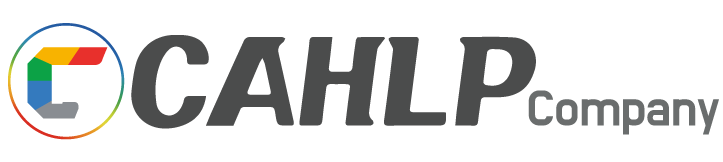
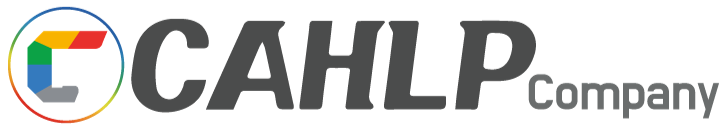
Add: 네비게이션 메뉴 추가
햄버거 버튼을 클릭하면 다른 페이지로 넘어갈 수 있는 네비게이션 메뉴가 나타납니다
- cahlp-dart 이미지 크기 조정
- 메뉴가 나타남에 따라 동적으로 색깔 변경

diff --git a/src/components/Header.jsx b/src/components/Header.jsx
@@ -1,28 +1,51 @@
 import React from "react";
-import { useNavigate } from "react-router-dom";
 
 import styles from './header.module.scss'
-import Main from "../pages/Main";
+import { useNavigate } from "react-router-dom";
 
 function Header(){
-  let navigate = useNavigate();
+  var [isModalOpen, setIsModalOpen] = React.useState(true); // modal open 여부
+  var navigate = useNavigate(); // react router의 navigate 함수
 
   return (
-      <div className={styles.container}>
-          <img
-              src={"public/img/cahlp-dark.png"}
+      <>
+        <div className={`${styles.header} ${isModalOpen && styles.modalOpen}`}>
+          {isModalOpen ? (
+            <img src={"public/img/cahlp-white.png"}
               className={styles.logo}
-              onClick={()=>{navigate("/");}}
-          />
-          <button 
-            className={styles.toggleButton}
-            onClick={()=>{console.log('click!')}}
+              onClick={() => { navigate("/"); }} />
+          ) : (
+            <img src={"public/img/cahlp-dark.png"}
+              className={styles.logo}
+              onClick={() => { navigate("/"); }} />
+          )}
+          <button
+              className={styles.toggleButton}
+              onClick={() => {isModalOpen ? setIsModalOpen(false) : setIsModalOpen(true);}}
           >
               <span className={styles.dot}></span>
               <span className={`${styles.dot} ${styles.dotCenter}`}></span>
               <span className={styles.dot}></span>
           </button>
-      </div>
+        </div>
+        {isModalOpen && <NavMenu isModalOpen={isModalOpen}/>}
+      </>
+  );
+}
+
+/**
+ * 메뉴 버튼 클릭 시 다른 경로로 안내하는 모달 컴포넌트
+ */
+function NavMenu(props){
+  return(
+    <div className={`${styles.nav} ${props.isModalOpen && styles.modalOpen}`}>
+      <button className={styles.navButton}
+        onClick={console.log("우미 브랜드 (준비중)")}
+      >우미 브랜드 (준비중)</button>
+      <button className={styles.navButton}
+        onClick={console.log("E-Service")}
+      >E-Service</button>
+    </div>
   );
 }
 

diff --git a/src/components/header.module.scss b/src/components/header.module.scss
@@ -1,17 +1,17 @@
-.container {
+.header {
     display: flex;
     flex-direction: row;
     justify-content: space-between;
     align-items: center;
 
-    padding: 0 20px;
-}
+    padding: 20px 20px 50px 20px;
+    z-index: 100;
 
+}
 .logo {
     height: 50px;
     cursor: pointer;
 }
-
 .toggleButton {
     background: transparent;
     border: none;
@@ -33,5 +33,34 @@
 
 }
 .dotCenter {
-    background-color: red;
+    background-color: white;
+    border: 1px solid #4b4b4b;
+}
+
+// NavMenu
+.nav {
+    width: 100%;
+    height: 100vh;
+}
+.navButton {
+    display: block;
+    background: transparent;
+    border: none;
+    cursor: pointer;
+
+    padding: 10px 20px;
+
+    font-size: 2rem;
+    font-weight: bold;
+    color: #e8e6e3;
+}
+.modalOpen {
+    background-color: #181a1b;
+
+    .dot {
+        background-color: white;
+    }
+    .dotCenter {
+        background-color: #4b4c4c;
+    }
 }
